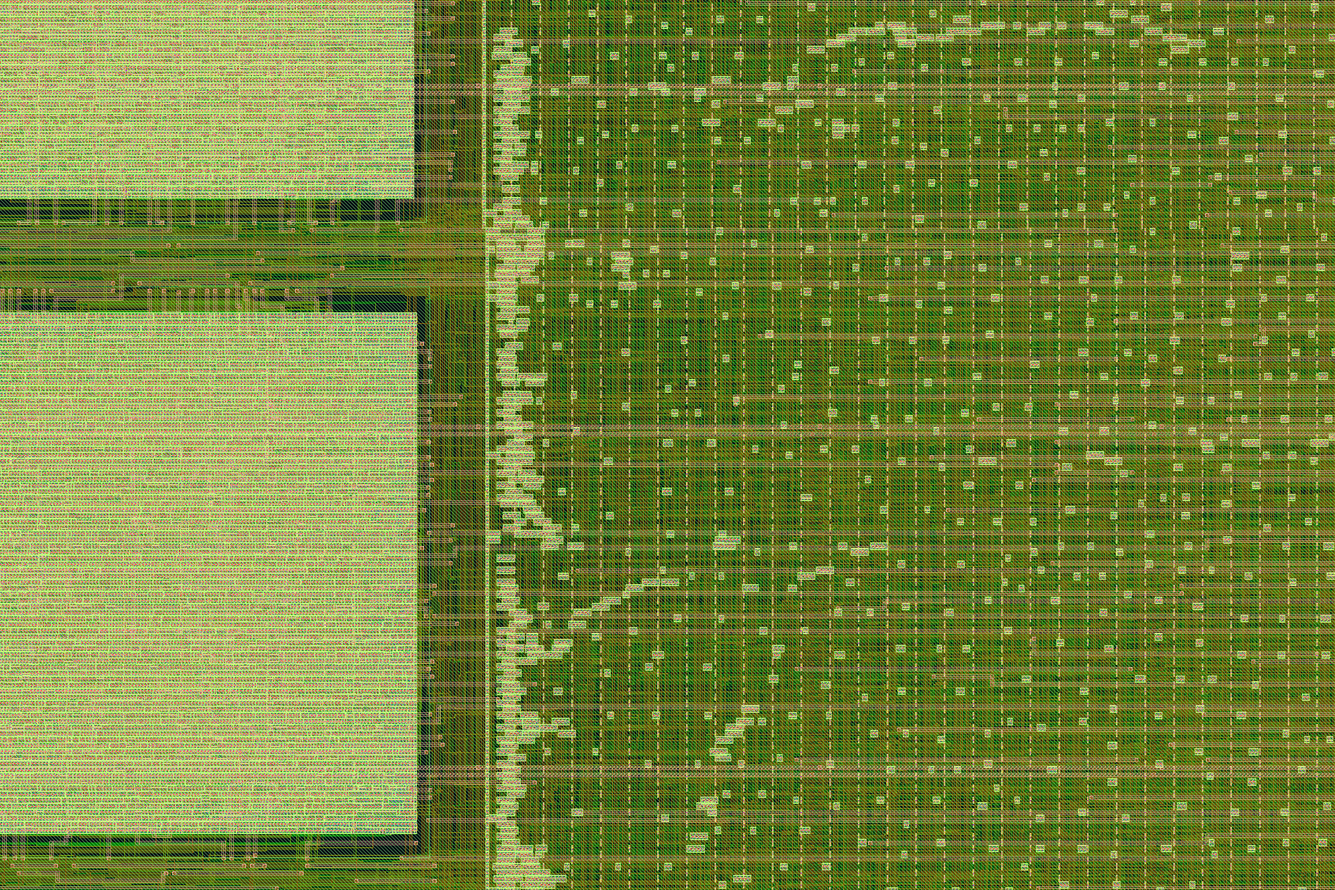
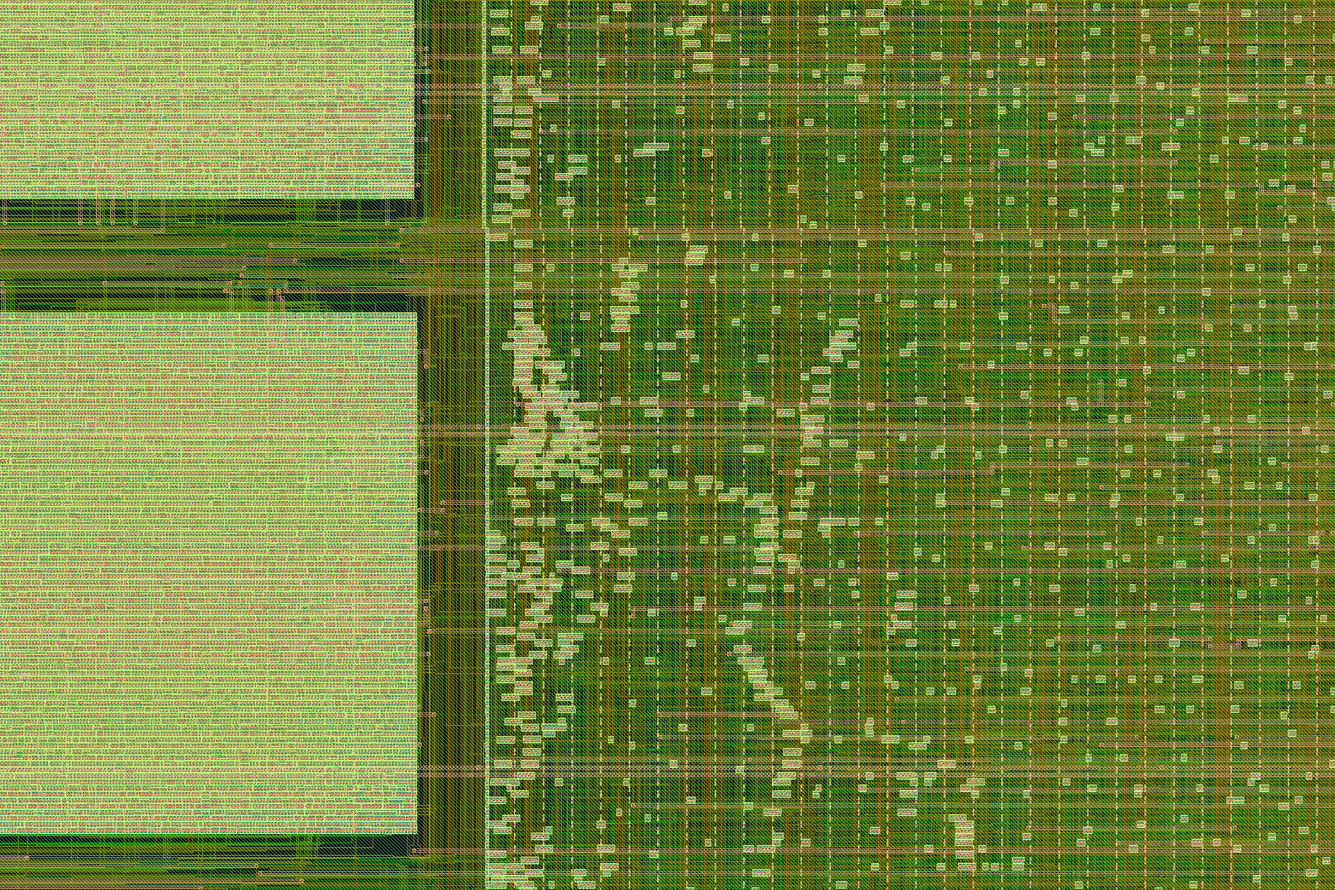
machine_routed: whole-machine routed layout v2 (unsigned, 10 DRT violations; v1 24,314)
Same netlist as v1; macro bands soft-blocked, PL density 35, GRT met5 0.5, DRT 64 iters.

diff --git a/docs/machine_routed/index.html b/docs/machine_routed/index.html
@@ -5,22 +5,28 @@
 <meta name="viewport" content="width=device-width, initial-scale=1">
 <title>吟游诗人整机布线</title>
 <style>
-:root{--bg:#f7f7f5;--fg:#1d1f23;--muted:#5d636d;--card:#ffffff;--line:#e2e2de;--warn-bg:#fff4e0;--warn-fg:#7a4a00;--accent:#2f6fde}
-@media (prefers-color-scheme:dark){:root:not([data-theme="light"]){--bg:#101215;--fg:#e8e9eb;--muted:#9aa1ab;--card:#181b20;--line:#2a2e35;--warn-bg:#3a2a0c;--warn-fg:#ffd28a;--accent:#7aa7ff}}
-:root[data-theme="dark"]{--bg:#101215;--fg:#e8e9eb;--muted:#9aa1ab;--card:#181b20;--line:#2a2e35;--warn-bg:#3a2a0c;--warn-fg:#ffd28a;--accent:#7aa7ff}
+:root{--bg:#f7f7f5;--fg:#1d1f23;--muted:#5d636d;--card:#ffffff;--line:#e2e2de;--warn-bg:#fff4e0;--warn-fg:#7a4a00;--ok-bg:#e8f5ec;--ok-fg:#1d5b32;--accent:#2f6fde}
+@media (prefers-color-scheme:dark){:root:not([data-theme="light"]){--bg:#101215;--fg:#e8e9eb;--muted:#9aa1ab;--card:#181b20;--line:#2a2e35;--warn-bg:#3a2a0c;--warn-fg:#ffd28a;--ok-bg:#12301d;--ok-fg:#9fe0b4;--accent:#7aa7ff}}
+:root[data-theme="dark"]{--bg:#101215;--fg:#e8e9eb;--muted:#9aa1ab;--card:#181b20;--line:#2a2e35;--warn-bg:#3a2a0c;--warn-fg:#ffd28a;--ok-bg:#12301d;--ok-fg:#9fe0b4;--accent:#7aa7ff}
 *{box-sizing:border-box}
 body{margin:0;background:var(--bg);color:var(--fg);font:16px/1.65 system-ui,-apple-system,"PingFang SC","Noto Sans SC",sans-serif}
 main{max-width:1100px;margin:0 auto;padding:24px 16px 64px}
 h1{font-size:1.6rem;margin:0 0 4px}
 .sub{color:var(--muted);margin:0 0 16px}
-.warn{background:var(--warn-bg);color:var(--warn-fg);border-radius:8px;padding:12px 14px;margin:0 0 20px}
-.stats{display:grid;grid-template-columns:repeat(auto-fit,minmax(150px,1fr));gap:10px;margin:0 0 24px}
+.warn,.ok{border-radius:8px;padding:12px 14px;margin:0 0 14px}
+.warn{background:var(--warn-bg);color:var(--warn-fg)}
+.ok{background:var(--ok-bg);color:var(--ok-fg)}
+.stats{display:grid;grid-template-columns:repeat(auto-fit,minmax(150px,1fr));gap:10px;margin:20px 0 24px}
 .stat{background:var(--card);border:1px solid var(--line);border-radius:8px;padding:10px 12px}
 .stat b{display:block;font-size:1.25rem}
 .stat span{color:var(--muted);font-size:.85rem}
 figure{margin:0 0 28px;background:var(--card);border:1px solid var(--line);border-radius:8px;overflow:hidden}
 figure img{display:block;width:100%;height:auto;background:#0b0e14}
 figcaption{padding:10px 14px;color:var(--muted);font-size:.92rem}
+table{border-collapse:collapse;width:100%;margin:0 0 24px;font-size:.92rem}
+th,td{border-bottom:1px solid var(--line);padding:6px 8px;text-align:left}
+th{color:var(--muted);font-weight:600}
+.tw{overflow-x:auto}
 a{color:var(--accent)}
 ul{padding-left:20px}
 </style>
@@ -28,27 +34,28 @@ ul{padding-left:20px}
 <body>
 <main>
 <h1>吟游诗人 Bard · 整机布线版</h1>
-<p class="sub">R135 整机（token → 下一个 token）· SKY130A · 6.441 × 3.003 mm</p>
+<p class="sub">R135 整机（token → 下一个 token）· SKY130A · 6.441 × 3.003 mm · 第二版（干净布线）</p>
 
-<div class="warn"><b>未签核预览。</b>整机已完成全局与详细布线，但详细布线只跑了 12 轮，仍剩 <b>24,314</b> 处布线规则违例（大多是宏上方 met5 层的短路）；没有做 DRC/LVS/时序签核，天线修复关闭，不能流片。去除违例的干净版正在重做。</div>
+<div class="ok"><b>功能已核对。</b>把布线后的网表按 SKY130 官方单元模型还原成门级电路，再用 3 个用例回放：下一个 token 分别为 32、5、128，与 C 参考实现一致，拍数与 RTL 完全相同；故意改坏一个门后，回放会被判错。</div>
+<div class="warn"><b>未签核，不能流片。</b>详细布线后仍剩 <b>10</b> 处布线规则违例（上一版 24,314 处）。天线修复、DRC/LVS、时序签核都没做：保持时间最差 −3.09 ns，天线违例 11,306 根网。</div>
 
 <div class="stats">
+<div class="stat"><b>10</b><span>剩余布线违例（上一版 24,314）</span></div>
 <div class="stat"><b>19.34 mm²</b><span>芯片面积</span></div>
-<div class="stat"><b>310,865</b><span>实例（含 120 个宏）</span></div>
-<div class="stat"><b>40.9 m</b><span>总线长</span></div>
-<div class="stat"><b>24,314</b><span>剩余布线违例</span></div>
+<div class="stat"><b>311,420</b><span>实例（含 120 个宏）</span></div>
+<div class="stat"><b>31.1 m</b><span>总线长（上一版 40.9 m）</span></div>
 <div class="stat"><b>7.44 mm²</b><span>120 个权重宏</span></div>
-<div class="stat"><b>2.71 mm²</b><span>标准单元</span></div>
+<div class="stat"><b>2.73 mm²</b><span>标准单元</span></div>
 </div>
 
 <figure><img src="whole.png" alt="整机布线全景：左右各 60 个权重宏，中间是整机主体" loading="lazy">
-<figcaption>全景。左右两侧各 6 × 10 个权重宏（共享权重表切成的 120 块，每块存 256 个 64 位权重字）；中间 3 mm 是整机主体（约 19 万门、8 万锁存器），布线最密。</figcaption></figure>
+<figcaption>全景。左右两侧各 6 × 10 个权重宏（共享权重表切成的 120 块，每块存 256 个 64 位权重字）；中间 3 mm 是整机主体（约 19 万门、8 万触发器）。宏带里的主体单元从约 27,000 个降到约 1,500 个。</figcaption></figure>
 
 <figure><img src="macros.png" alt="左下角的权重宏阵列" loading="lazy">
-<figcaption>权重宏阵列局部。每个宏约 250 × 260 µm，宏与宏之间是保护区和走线通道。</figcaption></figure>
+<figcaption>权重宏阵列局部。每个宏约 250 × 260 µm，宏之间是走线通道和电源条。</figcaption></figure>
 
 <figure><img src="chain_exit.png" alt="左侧宏带与中间主体的交界" loading="lazy">
-<figcaption>宏带与主体交界。每行宏的输出沿 OR 链朝中间串，到这里出口接入选择树。</figcaption></figure>
+<figcaption>宏带与主体交界。每行宏的输出沿 OR 链朝中间串，在这里接入选择树。剩下的 10 处违例都在这张图左侧不远处：几根主体边缘的线在 met5 上越进了宏带。</figcaption></figure>
 
 <figure><img src="center.png" alt="中间主体区局部" loading="lazy">
 <figcaption>中间主体区局部（约 600 × 400 µm）。</figcaption></figure>
@@ -56,15 +63,23 @@ ul{padding-left:20px}
 <figure><img src="detail.png" alt="主体区高倍局部" loading="lazy">
 <figcaption>高倍局部（约 80 × 54 µm），可看到单元行和各层金属走线。</figcaption></figure>
 
-<h2>这是怎么做出来的</h2>
+<h2>这一版改了什么</h2>
+<div class="tw"><table>
+<tr><th></th><th>第一版（预览）</th><th>第二版（本页）</th></tr>
+<tr><td>主体单元落在宏带里</td><td>约 27,000 个</td><td>约 1,500 个</td></tr>
+<tr><td>放置密度</td><td>65%</td><td>35%，主体铺满中间 3 mm</td></tr>
+<tr><td>全局布线溢出</td><td>195,218</td><td>102,654</td></tr>
+<tr><td>详细布线</td><td>12 轮，剩 24,314</td><td>64 轮，剩 10</td></tr>
+<tr><td>总线长</td><td>40.9 m</td><td>31.1 m</td></tr>
+</table></div>
 <ul>
-<li>整机网表来自 H 的 R135：整机主体 189,989 NAND / 80,283 LATCH，共享权重表移到外面。</li>
-<li>共享权重表（31.7 万门）平铺布不通，按地址高 7 位切成 128 块，其中 120 块非零，每块做成独立的宏；各块用 OR 链串起来，进中间的线只有 1,280 根。H 已对全部 32,768 个地址证明分块后与原表逐字相同。</li>
-<li>层级 RTL 已在 Verilator 上跑通 3 个 C 用例（下一个 token 分别为 32、5、128）；这份布线后网表的门级回放由 H 在跑。</li>
-<li>工具：LibreLane 3.0.14 / OpenROAD，在自有机器上运行。</li>
+<li>上一版的违例几乎全在宏上方的 met5：主体单元被摆进宏与宏之间的缝里，它们的连线只能从宏顶上绕。这一版给两侧宏带加了放置禁区，并降低放置密度，让主体在中间铺开。</li>
+<li>网表没变：综合结果和上一版相同，只是摆放和走线不同。还原后的门级电路与上一版逐字节一致，所以上面的功能回放结论对两版都成立。</li>
+<li>整机网表来自 H 的 R135：整机主体 189,989 NAND / 80,283 LATCH；共享权重表（31.7 万门）按地址高 7 位切成 128 块，120 块非零，各做成独立的宏，用 OR 链串起来。H 已对全部 32,768 个地址证明切块后与原表逐字相同。</li>
+<li>工具：LibreLane 3.0.14 / OpenROAD / KLayout，在自有机器上运行。</li>
 </ul>
 
-<p>下载：<a href="https://github.com/JogJohgoeg/nand-llama-research/releases/tag/machine-preview-r135-routed-v1">OAS / GDS / 指标（GitHub Release）</a> · <a href="../gds/int_c16_machine/">只到布局的 3D 预览</a> · <a href="../gds/">全部 3D 版图</a></p>
+<p>下载：<a href="https://github.com/JogJohgoeg/nand-llama-research/releases/tag/machine-r135-routed-v2">第二版 OAS / GDS / 指标</a> · <a href="https://github.com/JogJohgoeg/nand-llama-research/releases/tag/machine-preview-r135-routed-v1">第一版（预览）</a> · <a href="../gds/int_c16_machine/">只到布局的 3D 预览</a> · <a href="../gds/">全部 3D 版图</a></p>
 </main>
 </body>
 </html>
